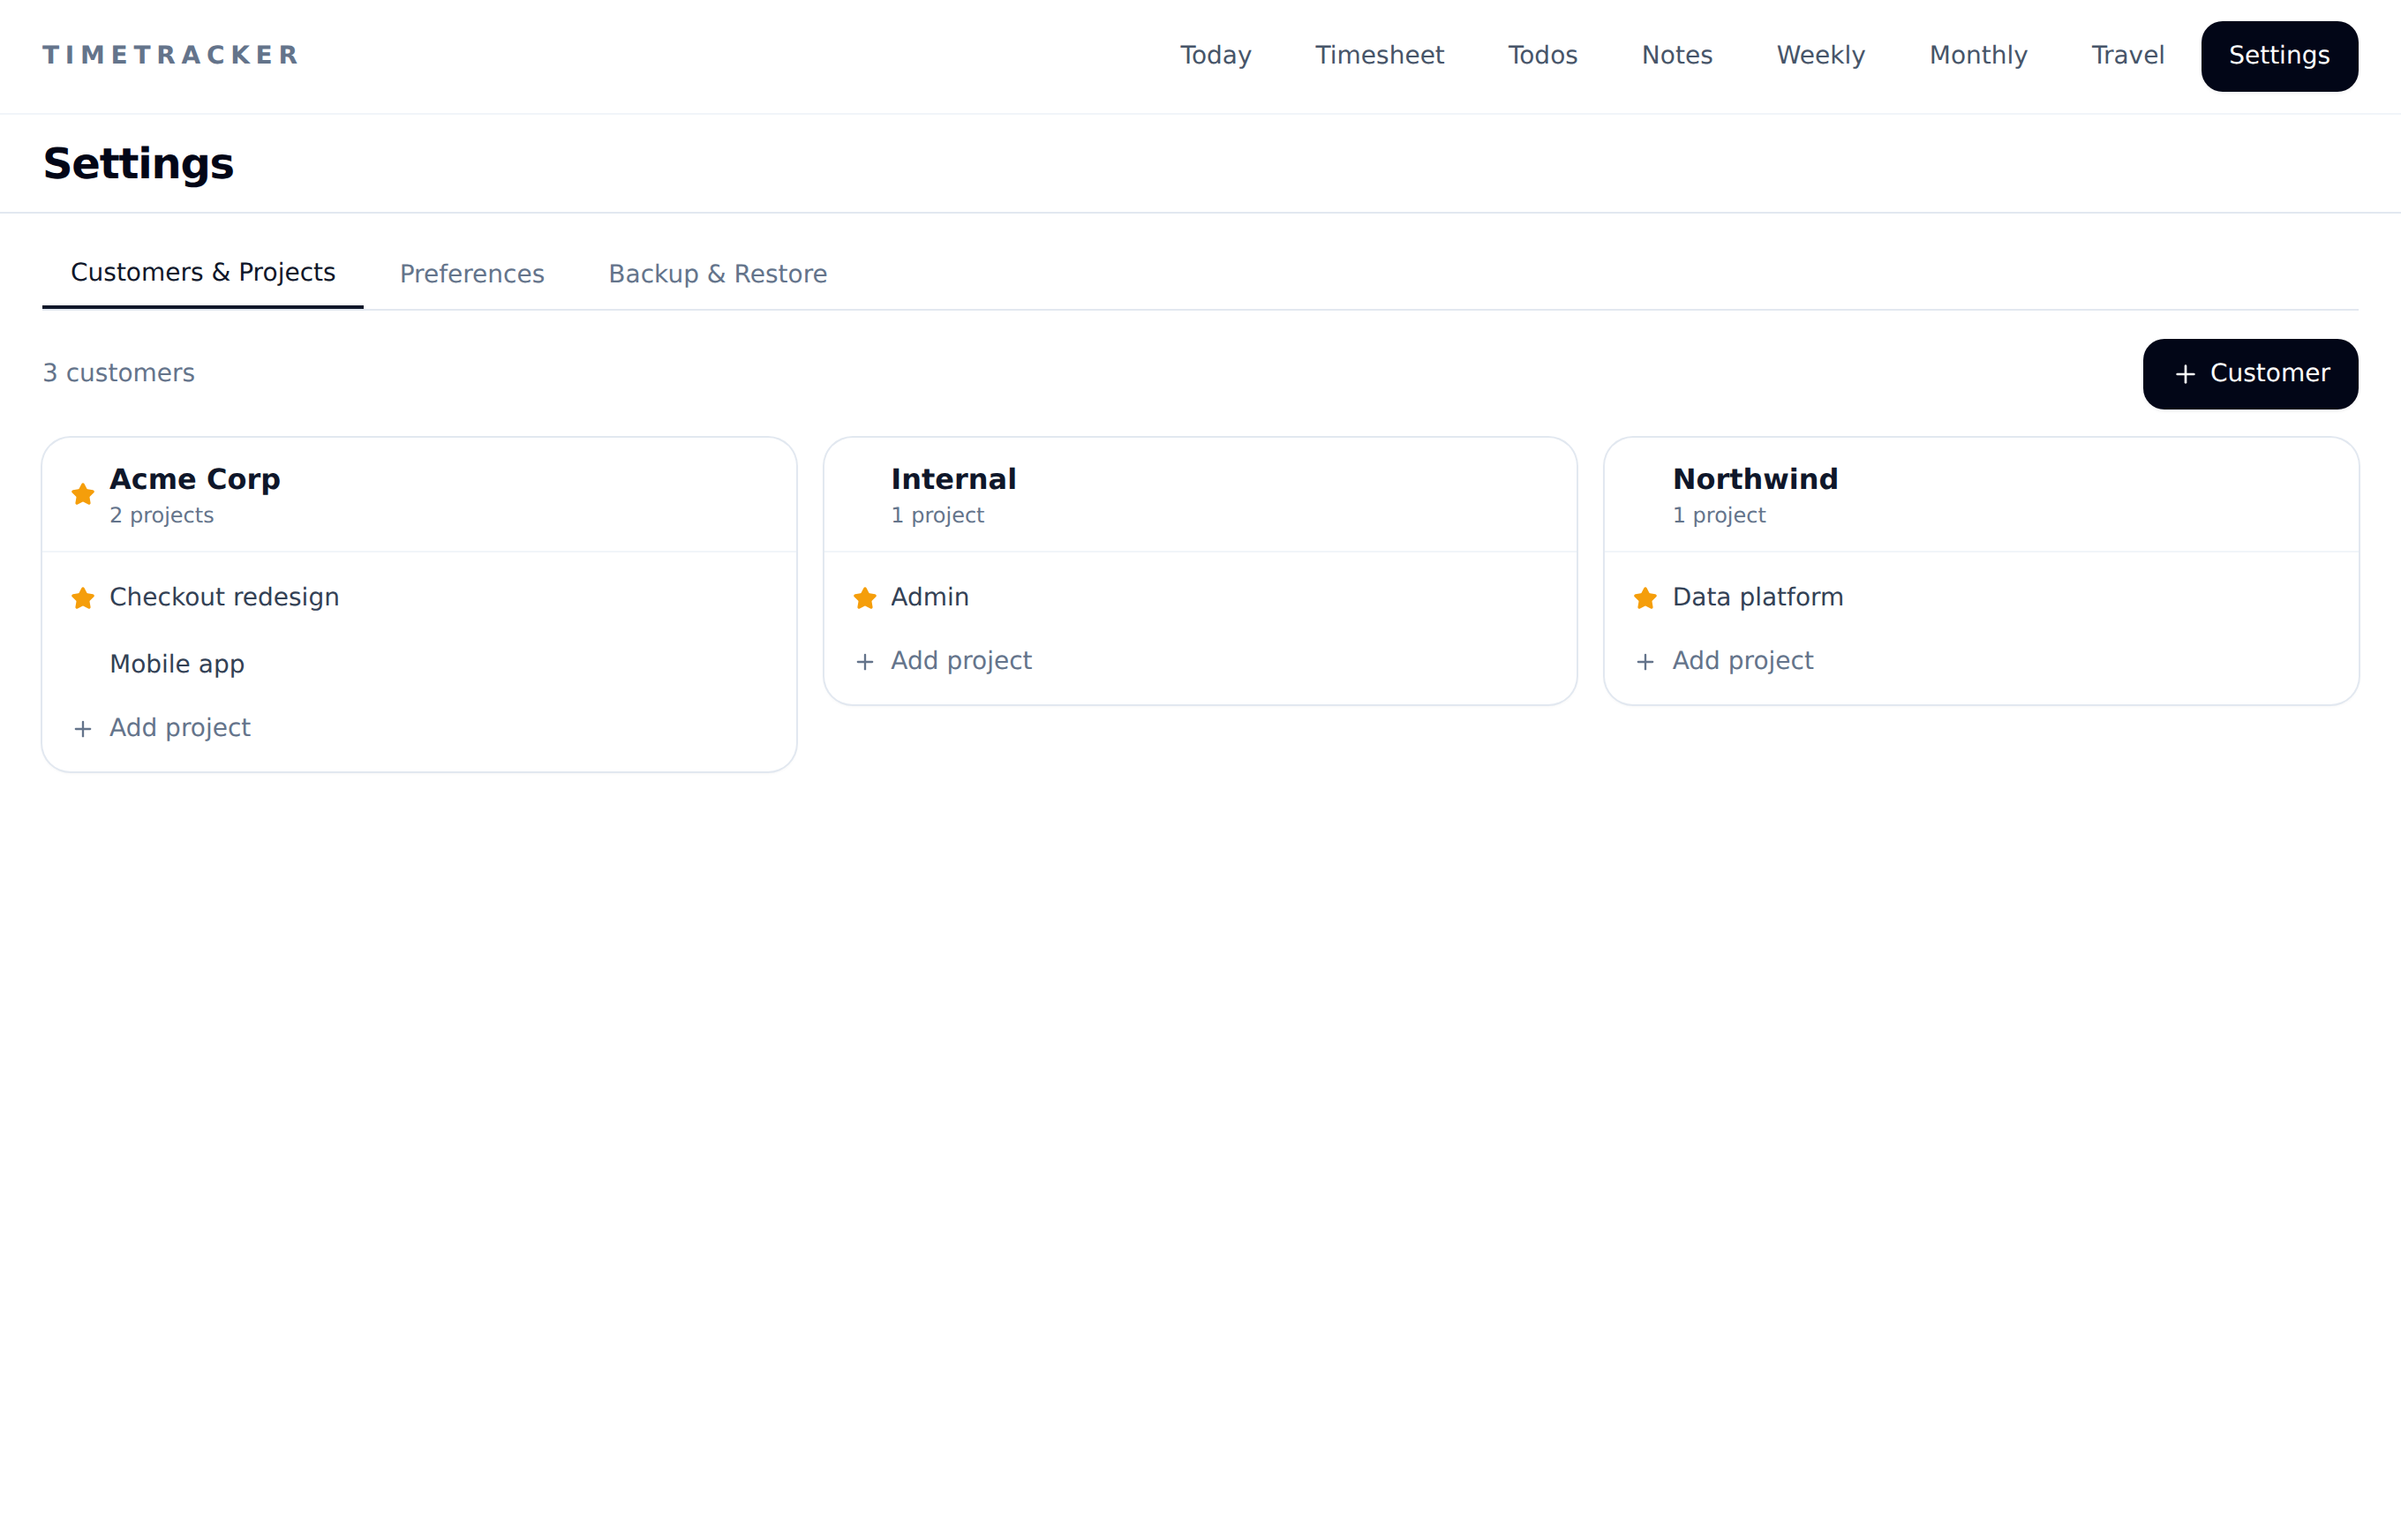
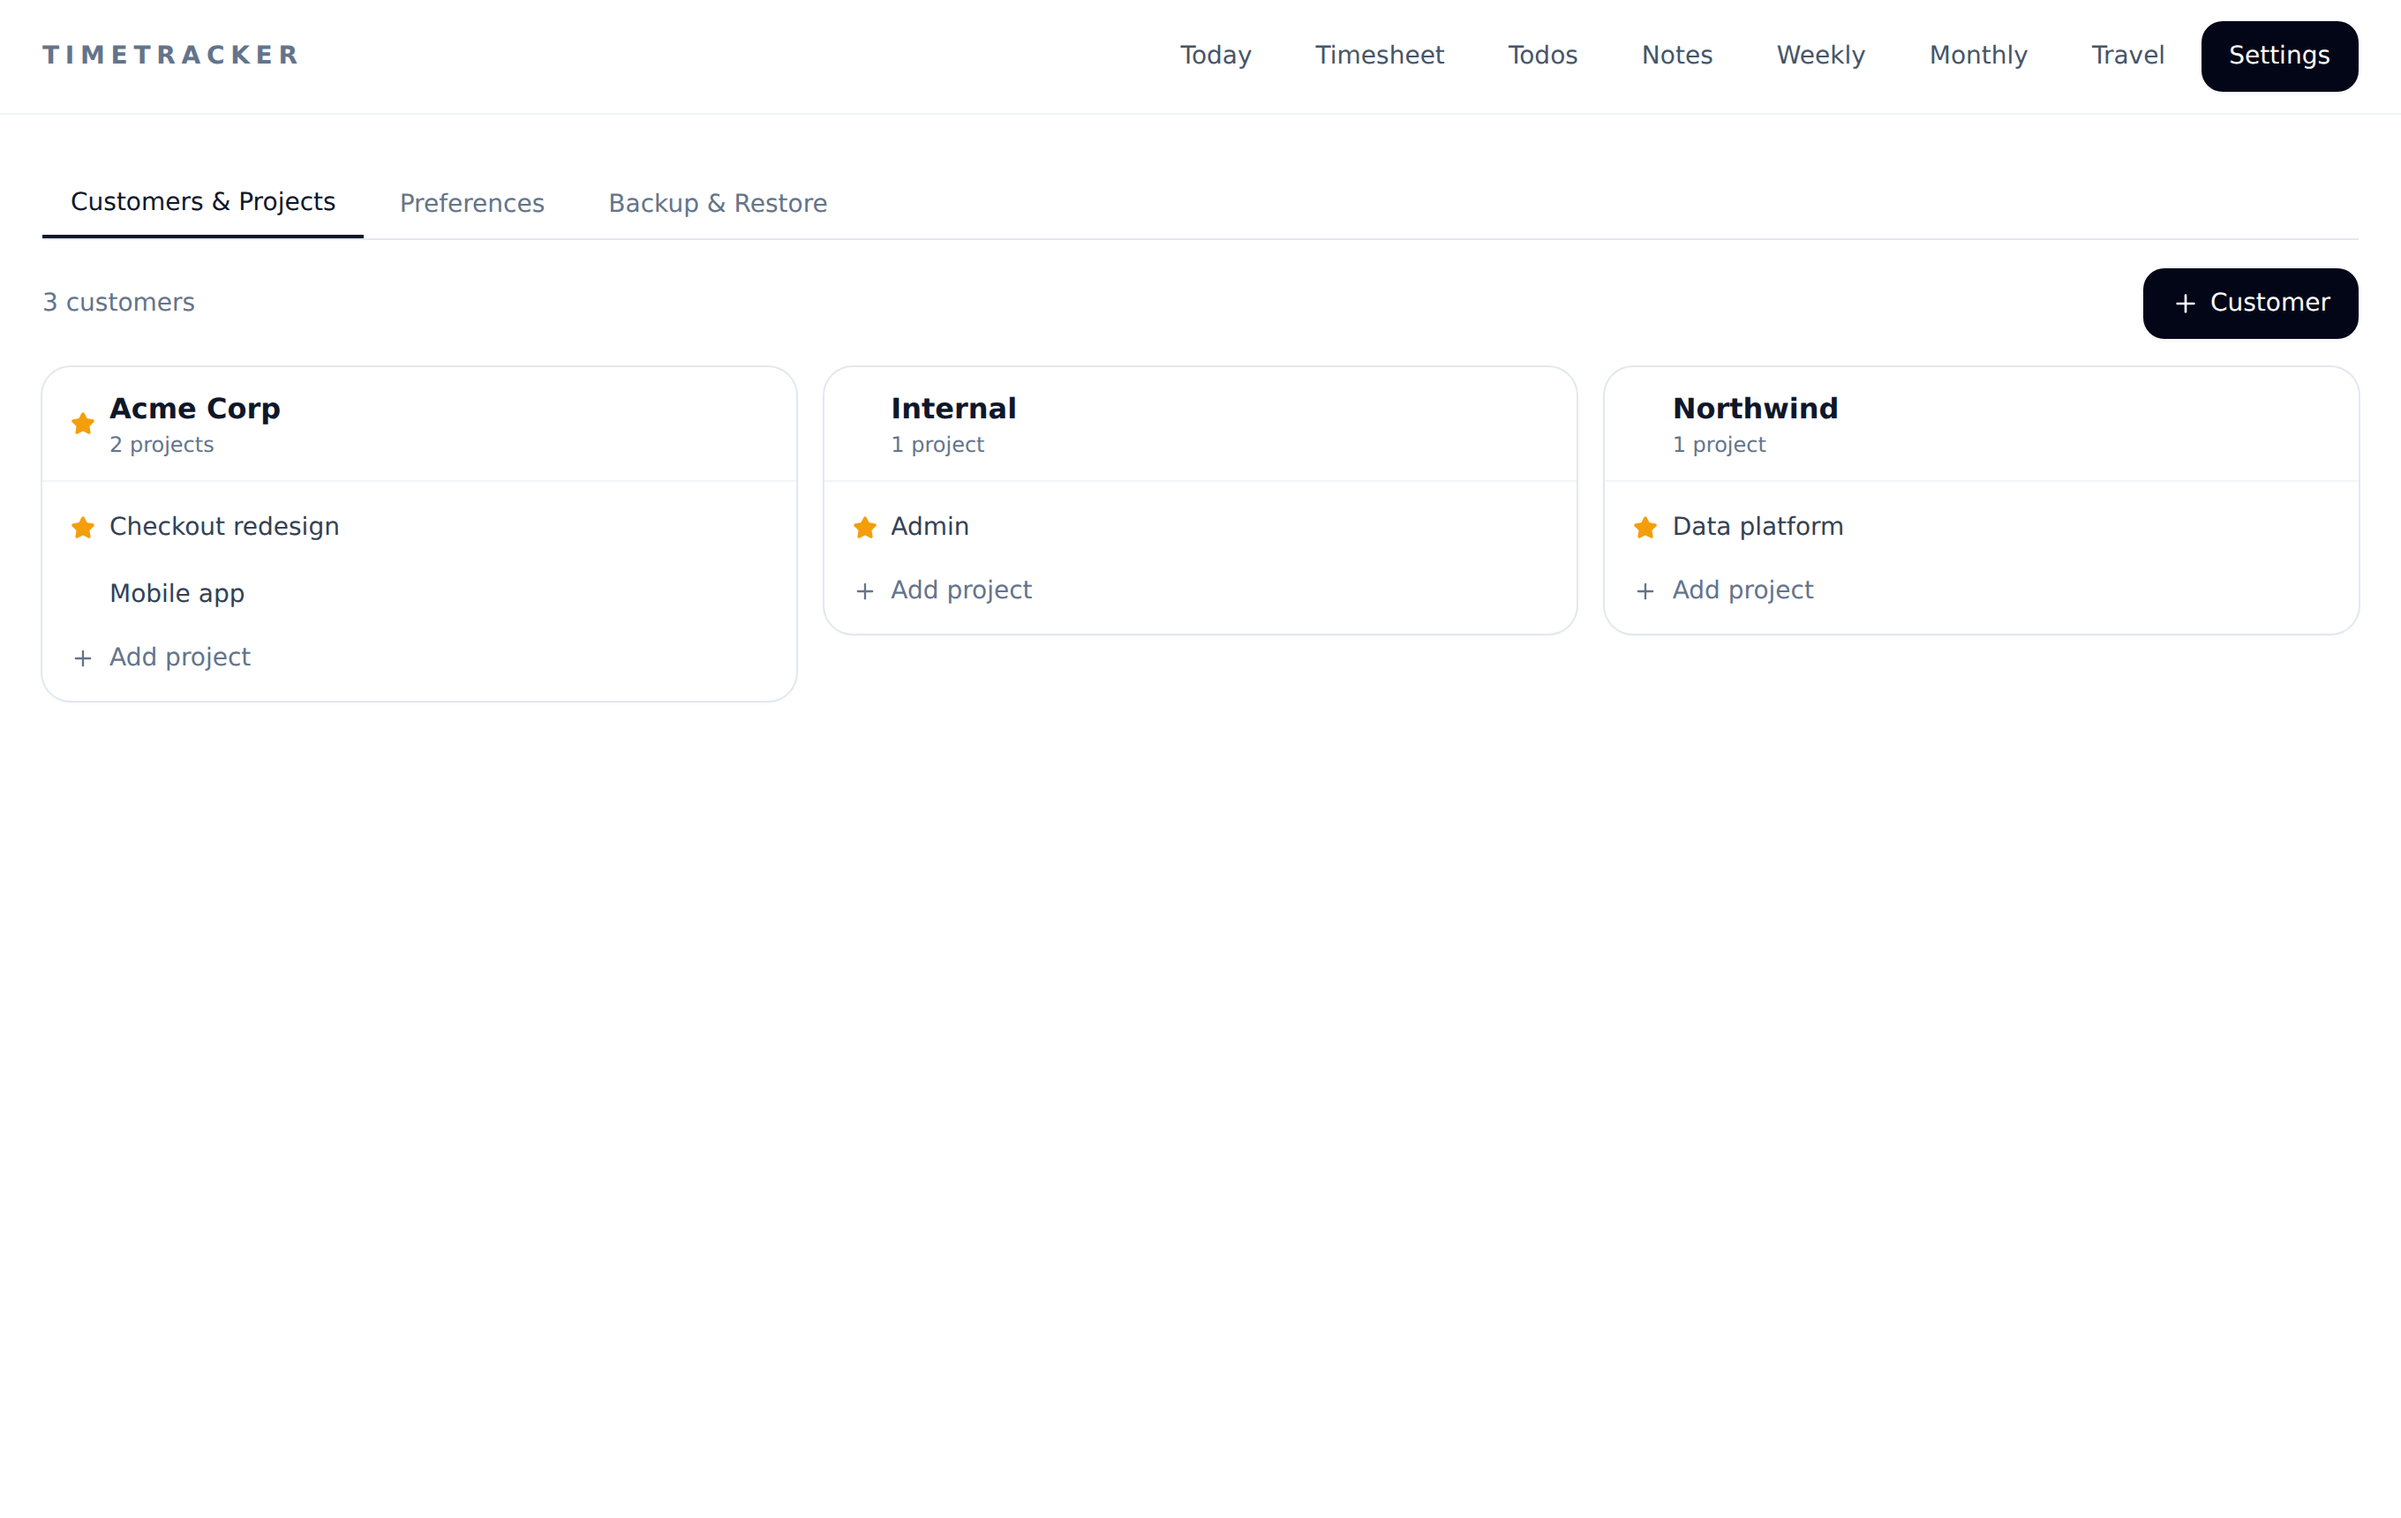
Remove page header bands (#22)
* feat: remove page header bands

The active nav tab already names the page. Drop the page-hero band and
move its data next to the content it describes:

- Today: date in the Hours panel header
- Timesheet: total replaces the "Time Entries" toolbar label
- Travel: trip count in the existing Total footer row

Each page keeps an sr-only h1. Delete the placeholder /backup route;
backup lives in Settings.

* docs: add encrypted backups to roadmap

* docs: refresh README screenshots without page headers

---------

diff --git a/src/routes/timesheet/+page.svelte b/src/routes/timesheet/+page.svelte
@@ -3,7 +3,7 @@ import { invoke } from '@tauri-apps/api/core';
 import { onMount, untrack } from 'svelte';
 import { page } from '$app/state';
 import { getMonthBounds, getWeekBounds, today } from '#lib/date-ranges.js';
-import { formatDayLabel, parseDayParam } from '#lib/today.js';
+import { parseDayParam } from '#lib/today.js';
 import { loadInitialTimesheetData } from '#lib/timesheet-startup.js';
 import type { Customer, Project, Issue, TimeEntryRow } from '#lib/types.js';
 import Combobox from '#lib/components/Combobox.svelte';
@@ -69,14 +69,6 @@ if (dateFilter === 'last_month') return getMonthBounds(-1);
 if (dateFilter === 'single_day') return { start: singleDay, end: singleDay };
 return { start: customStart, end: customEnd };
 }
-
-const filterLabels: Record<string, string> = {
-this_week: 'This Week',
-last_week: 'Last Week',
-this_month: 'This Month',
-last_month: 'Last Month',
-custom: 'Custom Range'
-};
 
 async function loadEntries(): Promise<void> {
 const { start, end } = getDateRange();
@@ -302,33 +294,22 @@ dateFilter = 'single_day';
 });
 
 let totalHours = $derived(entries.reduce((sum, e) => sum + e.hours, 0));
-let totalLabel = $derived(
-dateFilter === 'single_day'
-? parseDayParam(singleDay) ? formatDayLabel(singleDay) : 'Single Day'
-: (filterLabels[dateFilter] ?? 'Total')
-);
 </script>
 
 <div class="page-shell">
 <div class="page-view">
 
-<!-- Hero band -->
-<section class="page-hero">
-<h1 class="page-hero-title">Timesheet</h1>
-<div class="hero-stats">
-<div class="hero-stat">
-<span class="hero-stat-label">{totalLabel}</span>
-<span class="hero-stat-value">{formatHours(totalHours)} <span class="hero-stat-muted">h</span></span>
-</div>
-</div>
-</section>
+<h1 class="sr-only">Timesheet</h1>
 
 <!-- Main table card -->
 <section class="table-card">
 
 <!-- Toolbar -->
 <div class="table-toolbar flex items-center justify-between">
-<span class="table-title">Time Entries</span>
+<div class="toolbar-stat">
+<span class="toolbar-stat-label">Total</span>
+<span class="toolbar-stat-value">{formatHours(totalHours)} <span class="toolbar-stat-muted">h</span></span>
+</div>
 <div class="flex items-center gap-2">
 <select bind:value={dateFilter} class="form-select w-40">
 <option value="this_week">This Week</option>

diff --git a/src/routes/+page.svelte b/src/routes/+page.svelte
@@ -9,6 +9,7 @@
 	import { changes, palette, requestLogTime } from '#lib/palette-state.svelte.js';
 	import {
 		dailyTotals,
+		formatDayLabel,
 		formatHours,
 		inProgress,
 		isWeekend,
@@ -83,10 +84,7 @@
 	const logged = $derived(todayEntries(entries, todayIso));
 	const loggedHours = $derived(sumHours(logged));
 
-	const dateHeading = $derived.by(() => {
-		const [y, m, d] = todayIso.split('-').map(Number);
-		return new Date(y, m - 1, d).toLocaleDateString(undefined, { weekday: 'long', month: 'long', day: 'numeric' });
-	});
+	const dateHeading = $derived(formatDayLabel(todayIso));
 
 	function weekdayShort(ymd: string): string {
 		const [y, m, d] = ymd.split('-').map(Number);
@@ -276,9 +274,7 @@
 
 <div class="page-shell">
 	<div class="page-view">
-		<section class="page-hero">
-			<h1 class="page-hero-title">Today <span class="page-hero-subtitle">{dateHeading}</span></h1>
-		</section>
+		<h1 class="sr-only">Today</h1>
 
 		{#if loadError}
 			<div class="alert-panel alert-error">
@@ -307,7 +303,7 @@
 				<aside class="today-section">
 					<header class="today-section-header">
 						<span class="h-2.5 w-2.5 rounded-full bg-slate-400 dark:bg-neutral-500"></span>
-						<h2 class="today-section-title">Hours</h2>
+						<h2 class="today-section-title">Hours <span class="font-normal normal-case tracking-normal text-slate-500 dark:text-neutral-400">· {dateHeading}</span></h2>
 					</header>
 					<div class="space-y-4 px-1 py-4">
 						{@render hoursStat('Today', todayHours, target)}

diff --git a/src/routes/travel/+page.svelte b/src/routes/travel/+page.svelte
@@ -198,23 +198,7 @@
 
 <div class="page-shell">
 	<div class="page-view">
-		<section class="page-hero">
-			<h1 class="page-hero-title">Travel</h1>
-			<div class="hero-stats">
-				<div class="hero-stat">
-					<span class="hero-stat-label">Trips in {MONTH_NAMES[month - 1]}</span>
-					<span class="hero-stat-value">{trips.length}</span>
-				</div>
-				<div class="hero-stat">
-					<span class="hero-stat-label">Distance</span>
-					<span class="hero-stat-value">{formatNumber(totals.km)} <span class="hero-stat-muted">km</span></span>
-				</div>
-				<div class="hero-stat">
-					<span class="hero-stat-label">Amount</span>
-					<span class="hero-stat-value">{formatNumber(totals.amount)} <span class="hero-stat-muted">kr</span></span>
-				</div>
-			</div>
-		</section>
+		<h1 class="sr-only">Travel</h1>
 
 		<section class="table-card">
 			<div class="table-toolbar flex items-center justify-between gap-3">
@@ -327,7 +311,7 @@
 							</tr>
 						{:else if trips.length > 0}
 							<tr class="border-t-2 border-slate-300 dark:border-neutral-700">
-								<td class="table-cell-strong" colspan="3">Total</td>
+								<td class="table-cell-strong" colspan="3">Total <span class="font-normal text-slate-500 dark:text-neutral-400">· {trips.length} {trips.length === 1 ? 'trip' : 'trips'}</span></td>
 								<td class="table-cell-strong text-right">{formatNumber(totals.km)}</td>
 								<td class="table-cell-strong text-right">{formatNumber(totals.amount)}</td>
 								<td></td>

diff --git a/src/app.css b/src/app.css
@@ -108,37 +108,24 @@
     @apply w-full space-y-4;
   }
 
-  /* Continues the nav bar: bleeds out of page-shell padding, below the nav's muted divider.
-     Fixed height so every page's header lines up; stats sit right as plain muted text. */
-  .page-hero {
-    @apply -mx-3 -mt-4 flex h-14 items-center justify-between gap-6 border-b border-slate-200 bg-white px-3 sm:-mx-4 sm:px-4 lg:-mx-6 lg:px-6 dark:border-neutral-800 dark:bg-neutral-900;
-  }
-
-  .page-hero-title {
-    @apply flex min-w-0 items-baseline gap-3 truncate text-2xl font-semibold tracking-tight text-slate-950 dark:text-neutral-100;
-  }
-
-  .page-hero-subtitle {
-    @apply truncate text-base font-normal tracking-normal text-slate-500 dark:text-neutral-400;
-  }
-
-  .hero-stats {
+  /* Totals beside the control that scopes them (month/range pickers). */
+  .toolbar-stats {
     @apply flex shrink-0 items-baseline gap-5 text-sm;
   }
 
-  .hero-stat {
+  .toolbar-stat {
     @apply flex items-baseline gap-1.5 whitespace-nowrap;
   }
 
-  .hero-stat-label {
+  .toolbar-stat-label {
     @apply text-slate-400 dark:text-neutral-500;
   }
 
-  .hero-stat-value {
+  .toolbar-stat-value {
     @apply tabular-nums text-slate-500 dark:text-neutral-400;
   }
 
-  .hero-stat-muted {
+  .toolbar-stat-muted {
     @apply font-normal text-slate-400 dark:text-neutral-500;
   }
 

diff --git a/src/routes/todos/+page.svelte b/src/routes/todos/+page.svelte
@@ -224,9 +224,7 @@ void load();
 <div class="page-shell">
 <div class="page-view">
 
-<section class="page-hero">
-<h1 class="page-hero-title">Todos</h1>
-</section>
+<h1 class="sr-only">Todos</h1>
 
 {#if error}
 <div class="flex items-center justify-between rounded-xl bg-red-50 dark:bg-red-500/10 px-4 py-2 text-sm text-red-700 dark:text-red-300 ring-1 ring-red-200 dark:ring-red-500/30">

diff --git a/src/routes/settings/+page.svelte b/src/routes/settings/+page.svelte
@@ -385,9 +385,7 @@
 <div class="page-shell">
   <div class="page-view">
 
-    <section class="page-hero">
-      <h1 class="page-hero-title">Settings</h1>
-    </section>
+    <h1 class="sr-only">Settings</h1>
 
     <!-- Tab bar -->
     <div class="mb-4 flex gap-1 border-b border-slate-200 dark:border-neutral-800">

diff --git a/src/routes/reports/monthly/+page.svelte b/src/routes/reports/monthly/+page.svelte
@@ -152,9 +152,7 @@
 <div class="page-shell">
   <div class="page-view">
 
-    <section class="page-hero">
-      <h1 class="page-hero-title">Monthly Report</h1>
-    </section>
+    <h1 class="sr-only">Monthly Report</h1>
 
     <div class="table-card">
       <!-- Month navigator toolbar -->

diff --git a/src/routes/reports/weekly/+page.svelte b/src/routes/reports/weekly/+page.svelte
@@ -119,9 +119,7 @@
 <div class="page-shell">
   <div class="page-view">
 
-    <section class="page-hero">
-      <h1 class="page-hero-title">Weekly Report</h1>
-    </section>
+    <h1 class="sr-only">Weekly Report</h1>
 
     <div class="table-card">
       <!-- Week navigator toolbar -->

diff --git a/AGENTS.md b/AGENTS.md
@@ -72,7 +72,7 @@ Design language (follow existing pages before inventing):
 - Palette: slate neutrals, with sky for active/drag, emerald for done, red for overdue/errors, amber for due today, and violet for issue links.
 - Dark mode: every color utility needs a `dark:` counterpart (class strategy). Dark uses the `neutral` grays (not slate, which reads blue): `neutral-950` page / `neutral-900` card / `neutral-800` ring, text `neutral-100`/`neutral-400`, accents `-400` text on `-500/10` tints. Prefer `app.css` primitives, which already handle it. Screenshot both themes.
 - Surfaces: `rounded-xl`/`rounded-2xl`, `ring-1 ring-slate-200`, `shadow-sm`, lifting on hover (`hover:-translate-y-0.5 hover:shadow-md`).
-- Every page starts with the `page-hero` block (except `/notes`, which gives the full window to the list and editor), followed by content in `table-card` / `panel-card` or purpose-built layouts.
+- No page title bands: the active nav tab already names the page. Each page has an `sr-only` `<h1>` and starts directly with content in `table-card` / `panel-card` or purpose-built layouts. Put totals beside the control that scopes them (`toolbar-stat*` in a `table-toolbar`), not in a header.
 - Reuse the `app.css` primitives: `btn-primary`, `btn-secondary(-sm)`, `btn-danger(-sm)`, `btn-icon-*`, `form-input`, `form-select`, `form-textarea`, `form-label`, `form-error`, `alert-*`.
 - States: show an empty state ("No cards"), show inline errors near the action, and confirm destructive actions inline rather than with `confirm()`.
 - Motion: short (150–200 ms) `fade`/`scale`/`flip` from Svelte. No animation libraries.

diff --git a/docs/data-and-backup.md b/docs/data-and-backup.md
@@ -107,8 +107,6 @@ The active backup and restore workflow is currently exposed in the Settings page
 - warns when the backup has no notes but the database does ("This backup has no notes; restoring deletes your N notes.")
 - warns that restore replaces all current data
 
-There is also a dedicated `/backup` route in the app, but it is still a placeholder and does not contain the live workflow yet.
-
 ## Error handling
 
 Rust command errors are serialized as strings and surfaced back to the frontend. That means backup and restore failures are presented as user-visible text rather than hidden behind silent retries or background recovery.

diff --git a/docs/architecture.md b/docs/architecture.md
@@ -24,8 +24,6 @@ The main user-facing areas are:
 - `/travel` — month-scoped list of business trips (date, from/to, optional km and kr) with inline add, edit, repeat, and delete
 - `/settings` — customer and project management (cards with inline add, rename, default, and delete), preferences (System/Light/Dark appearance), backup/restore, and dev-only seed tooling
 
-There is also a `/backup` route in the tree, but it is currently still a placeholder while the real backup and restore workflow lives under Settings.
-
 ### Backend
 
 - Located under `src-tauri/src/`

diff --git a/docs/roadmap.md b/docs/roadmap.md
@@ -16,6 +16,8 @@ Markdown notes stored in SQLite, written in Obsidian-compatible markdown so note
 
 ## 2. Due reminders on todos
 
+## 3. Encrypted backups
+
 ## Done
 
 - Notes search — SQLite FTS5 (`trigram`: case-insensitive substrings, so `rapport` finds `tidrapport`; å/ä/ö stay distinct) over titles and plain-text bodies; the note list ranks by relevance (title hits first) with highlighted titles and snippets, ⌘K lists the top 5 notes (from 3 typed characters), and Settings › Preferences shows the index size with a Rebuild button
